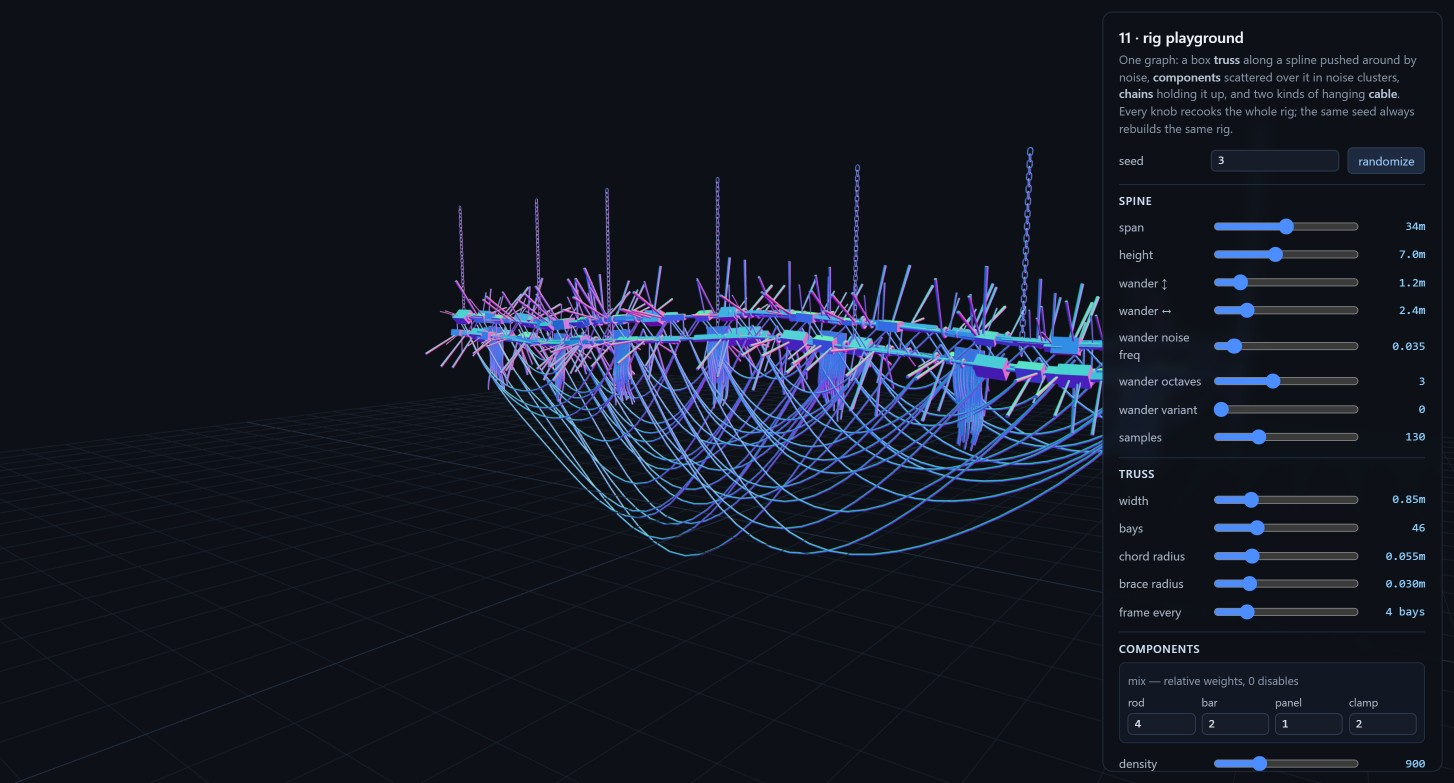
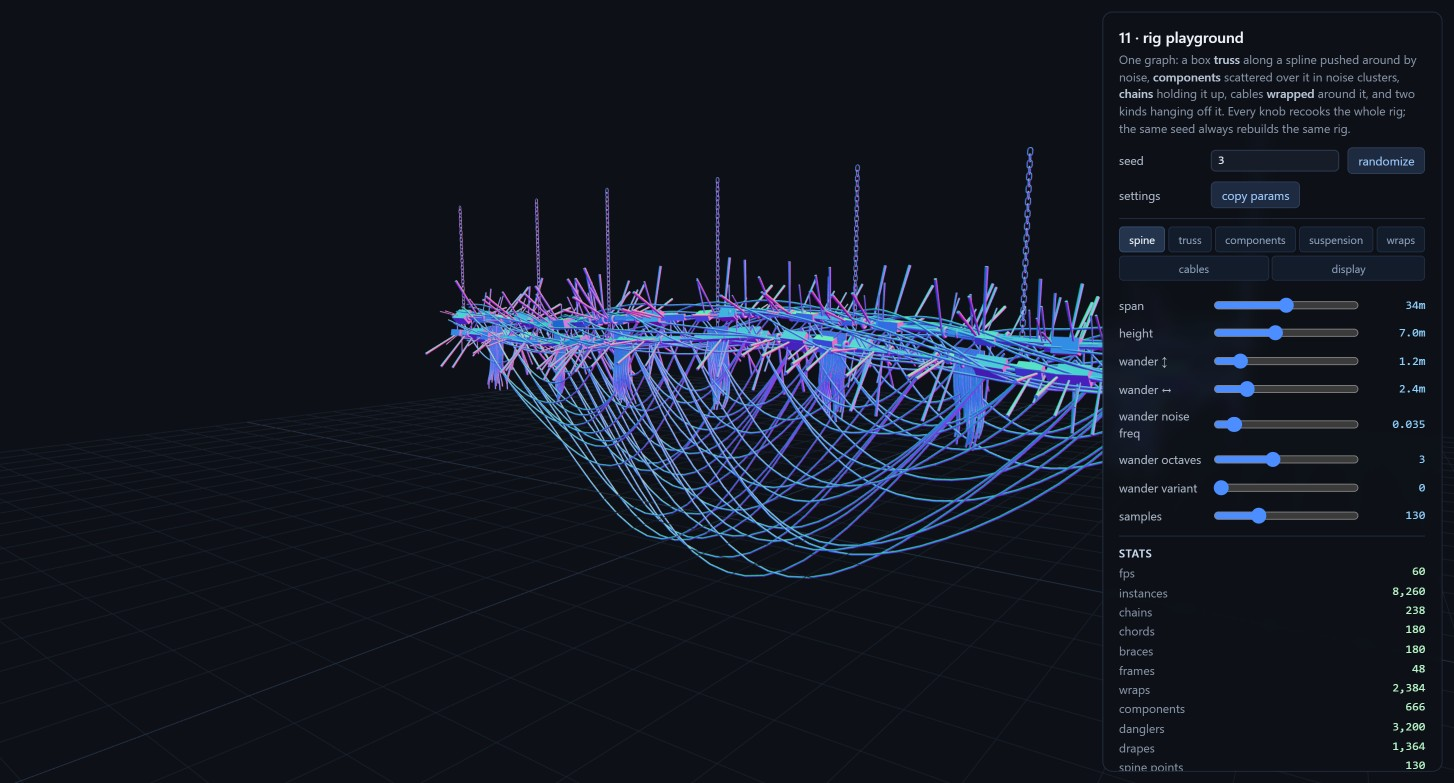
demo(11): tabs, and a copy-params button
The knobs outgrew one scroll — five generation groups plus display is
around fifty controls, and hunting for one of them in a single column
was the whole problem. Seven tabs now, one group visible at a time.

Stats deliberately sit OUTSIDE the tabs. They are the readout you watch
while turning a knob, so putting them behind a tab would mean losing
sight of the thing the knob is meant to change.

The tab bar is local to this panel rather than in the shared shell. 05
and 08 have a handful of controls each and would gain nothing from it —
the same rule that kept the shell itself waiting until a third panel
actually needed it.

`copy params` copies the current settings as a PATCH: only what differs
from the defaults, plus the seed. A full dump would be eighty lines of
mostly defaults, where a patch is short enough to paste into a
conversation — and it is exactly the shape window.__rigSet and the
capture script's --params flag already take, so a copied setting can be
replayed without editing it.

The clipboard can refuse — an insecure context, or a permission the page
was never granted. Rather than a button that silently does nothing, the
failure switches to the display tab, where the same JSON is rendered
selectable, and says so on the button.

Claude-Session: https://claude.ai/code/session_01AFCd4d59ZzJpEtmXCT57hH

Changed region(s): [[0.3095, 0.2146, 0.9904, 1.0], [0.7737, 0.092, 0.9904, 0.1839]]

diff --git a/examples/11-rig-playground/Panel.svelte b/examples/11-rig-playground/Panel.svelte
@@ -11,7 +11,7 @@
   import { hashCombine } from "pcg-ts";
   import { untrack } from "svelte";
   import PanelShell from "../shared/PanelShell.svelte";
-  import { PART_KINDS, RIG_GROUPS, type PartKind, type RigGroup, type RigParams } from "./rig.js";
+  import { DEFAULT_PARAMS, PART_KINDS, RIG_GROUPS, type PartKind, type RigGroup, type RigParams } from "./rig.js";
   import {
     DISPLAY_SLIDERS,
     GROUP_LABEL,
@@ -126,6 +126,69 @@
 
   const mixHasHome = SECTIONS.some((s) => s.title === MIX_SECTION);
 
+  /**
+   * Tabs, because the knobs outgrew one scroll: five generation groups
+   * plus display is roughly fifty controls, and hunting for one of them
+   * in a single column is the whole problem.
+   *
+   * Only this panel has them. 05 and 08 have a handful of controls each
+   * and would gain nothing, so the tab bar stays local rather than going
+   * into the shared shell — the same rule that kept the shell waiting
+   * for a third panel before it was extracted.
+   *
+   * Stats sit OUTSIDE the tabs: they are the readout you check while
+   * turning a knob, so hiding them behind a tab would mean losing sight
+   * of the thing a knob is meant to change.
+   */
+  const TABS: readonly string[] = [...SECTIONS.map((s) => s.title), "display"];
+  let tab = $state(TABS[0]);
+
+  /**
+   * The current settings as a PATCH — only what differs from the
+   * defaults, plus the seed. A full dump would be eighty lines of mostly
+   * defaults; a patch is short enough to paste into a conversation and
+   * is exactly the shape window.__rigSet and the capture script's
+   * --params flag already take, so a copied setting can be replayed
+   * without editing it.
+   */
+  const patch = $derived.by(() => {
+    const out: Record<string, unknown> = { seed: params.seed };
+    for (const key of Object.keys(DEFAULT_PARAMS) as (keyof RigParams)[]) {
+      if (key === "seed" || key === "weights") continue;
+      if (params[key] !== DEFAULT_PARAMS[key]) out[key] = params[key];
+    }
+    const w: Record<string, number> = {};
+    for (const kind of PART_KINDS) {
+      if (params.weights[kind] !== DEFAULT_PARAMS.weights[kind]) w[kind] = params.weights[kind];
+    }
+    if (Object.keys(w).length > 0) out.weights = { ...params.weights };
+    const d: Record<string, number> = {};
+    for (const spec of DISPLAY_SLIDERS) {
+      if (display[spec.key] !== initialView.display[spec.key]) d[spec.key] = display[spec.key];
+    }
+    if (Object.keys(d).length > 0) out.display = d;
+    return JSON.stringify(out, null, 2);
+  });
+
+  let copyState = $state<"idle" | "done" | "manual">("idle");
+  async function copyPatch(): Promise<void> {
+    try {
+      await navigator.clipboard.writeText(patch);
+      copyState = "done";
+    } catch {
+      // The clipboard can refuse — an insecure context, or a permission
+      // the page was never granted. Silently doing nothing would look
+      // like a broken button, so fall back to showing the JSON where it
+      // can be selected by hand and say that is what happened.
+      tab = "display";
+      copyState = "manual";
+    }
+    setTimeout(() => (copyState = "idle"), 1600);
+  }
+  const copyLabel = $derived(
+    copyState === "done" ? "copied!" : copyState === "manual" ? "select it below ↓" : "copy params",
+  );
+
   /** Decimals to show, read off the step so the readout never over-reports. */
   function decimals(step: number): number {
     if (step >= 1) return 0;
@@ -239,8 +302,9 @@
 <PanelShell title="11 · rig playground" width={PANEL_WIDTH} badge={cookFlag}>
   <p class="info">
     One graph: a box <b>truss</b> along a spline pushed around by noise, <b>components</b>
-    scattered over it in noise clusters, <b>chains</b> holding it up, and two kinds of hanging
-    <b>cable</b>. Every knob recooks the whole rig; the same seed always rebuilds the same rig.
+    scattered over it in noise clusters, <b>chains</b> holding it up, cables <b>wrapped</b> around
+    it, and two kinds hanging off it. Every knob recooks the whole rig; the same seed always
+    rebuilds the same rig.
   </p>
 
   <div class="row">
@@ -249,9 +313,24 @@
     <button class="wide" onclick={randomizeSeed}>randomize</button>
   </div>
 
+  <div class="row">
+    <span>settings</span>
+    <button class="wide" onclick={copyPatch}>{copyLabel}</button>
+  </div>
+
+  <div class="tabs" role="tablist" aria-label="controls">
+    {#each TABS as name (name)}
+      <button
+        class="tab"
+        class:on={tab === name}
+        role="tab"
+        aria-selected={tab === name}
+        onclick={() => (tab = name)}>{name}</button>
+    {/each}
+  </div>
+
   {#each SECTIONS as section (section.title)}
-    <div class="group">
-      <h2>{section.title}</h2>
+    <div class="group" hidden={tab !== section.title}>
 
       {#if section.title === MIX_SECTION}{@render mix()}{/if}
 
@@ -286,14 +365,19 @@
   {/each}
 
   {#if !mixHasHome}
-    <div class="group">
+    <div class="group" hidden={tab !== MIX_SECTION}>
       <h2>mix</h2>
       {@render mix()}
     </div>
   {/if}
 
-  <div class="group">
+  <div class="group" hidden={tab !== "display"}>
+    <h2>settings</h2>
+    <p class="hint">Everything that differs from the defaults. Paste it back to replay a rig.</p>
+    <pre class="patch">{patch}</pre>
+
     <h2>display</h2>
+
 
     <label class="row">
       <span>shading</span>
@@ -407,6 +491,72 @@
     margin-top: 10px;
     padding-top: 8px;
     border-top: 1px solid #223047;
+  }
+
+  /* The tab bar sits directly above the groups, so the group that
+     follows it drops its own rule — two lines a few pixels apart read
+     as a mistake. */
+  .tabs + .group {
+    border-top: none;
+    padding-top: 2px;
+    margin-top: 4px;
+  }
+
+  .patch {
+    margin: 4px 0 8px;
+    padding: 6px 8px;
+    max-height: 150px;
+    overflow: auto;
+    font-size: 11px;
+    line-height: 1.45;
+    color: #9fd0b0;
+    background: #0e1621;
+    border: 1px solid #223047;
+    border-radius: 4px;
+    white-space: pre-wrap;
+    word-break: break-word;
+  }
+
+  .hint {
+    margin: 2px 0 0;
+    font-size: 11px;
+    color: #7d8ea6;
+  }
+
+  .tabs {
+    display: flex;
+    flex-wrap: wrap;
+    gap: 3px;
+    margin-top: 10px;
+    padding-top: 8px;
+    border-top: 1px solid #223047;
+  }
+
+  .tab {
+    flex: 1 1 auto;
+    padding: 4px 7px;
+    font: inherit;
+    font-size: 11px;
+    color: #8fa3bf;
+    background: #131c2b;
+    border: 1px solid #223047;
+    border-radius: 4px;
+    cursor: pointer;
+  }
+
+  .tab:hover {
+    color: #d6e2f2;
+  }
+
+  .tab.on {
+    color: #eaf1fa;
+    background: #24344d;
+    border-color: #35507a;
+  }
+
+  .tab:focus-visible {
+    outline: 2px solid #4d7fd1;
+    outline-offset: 1px;
   }
   .row {
     display: flex;
